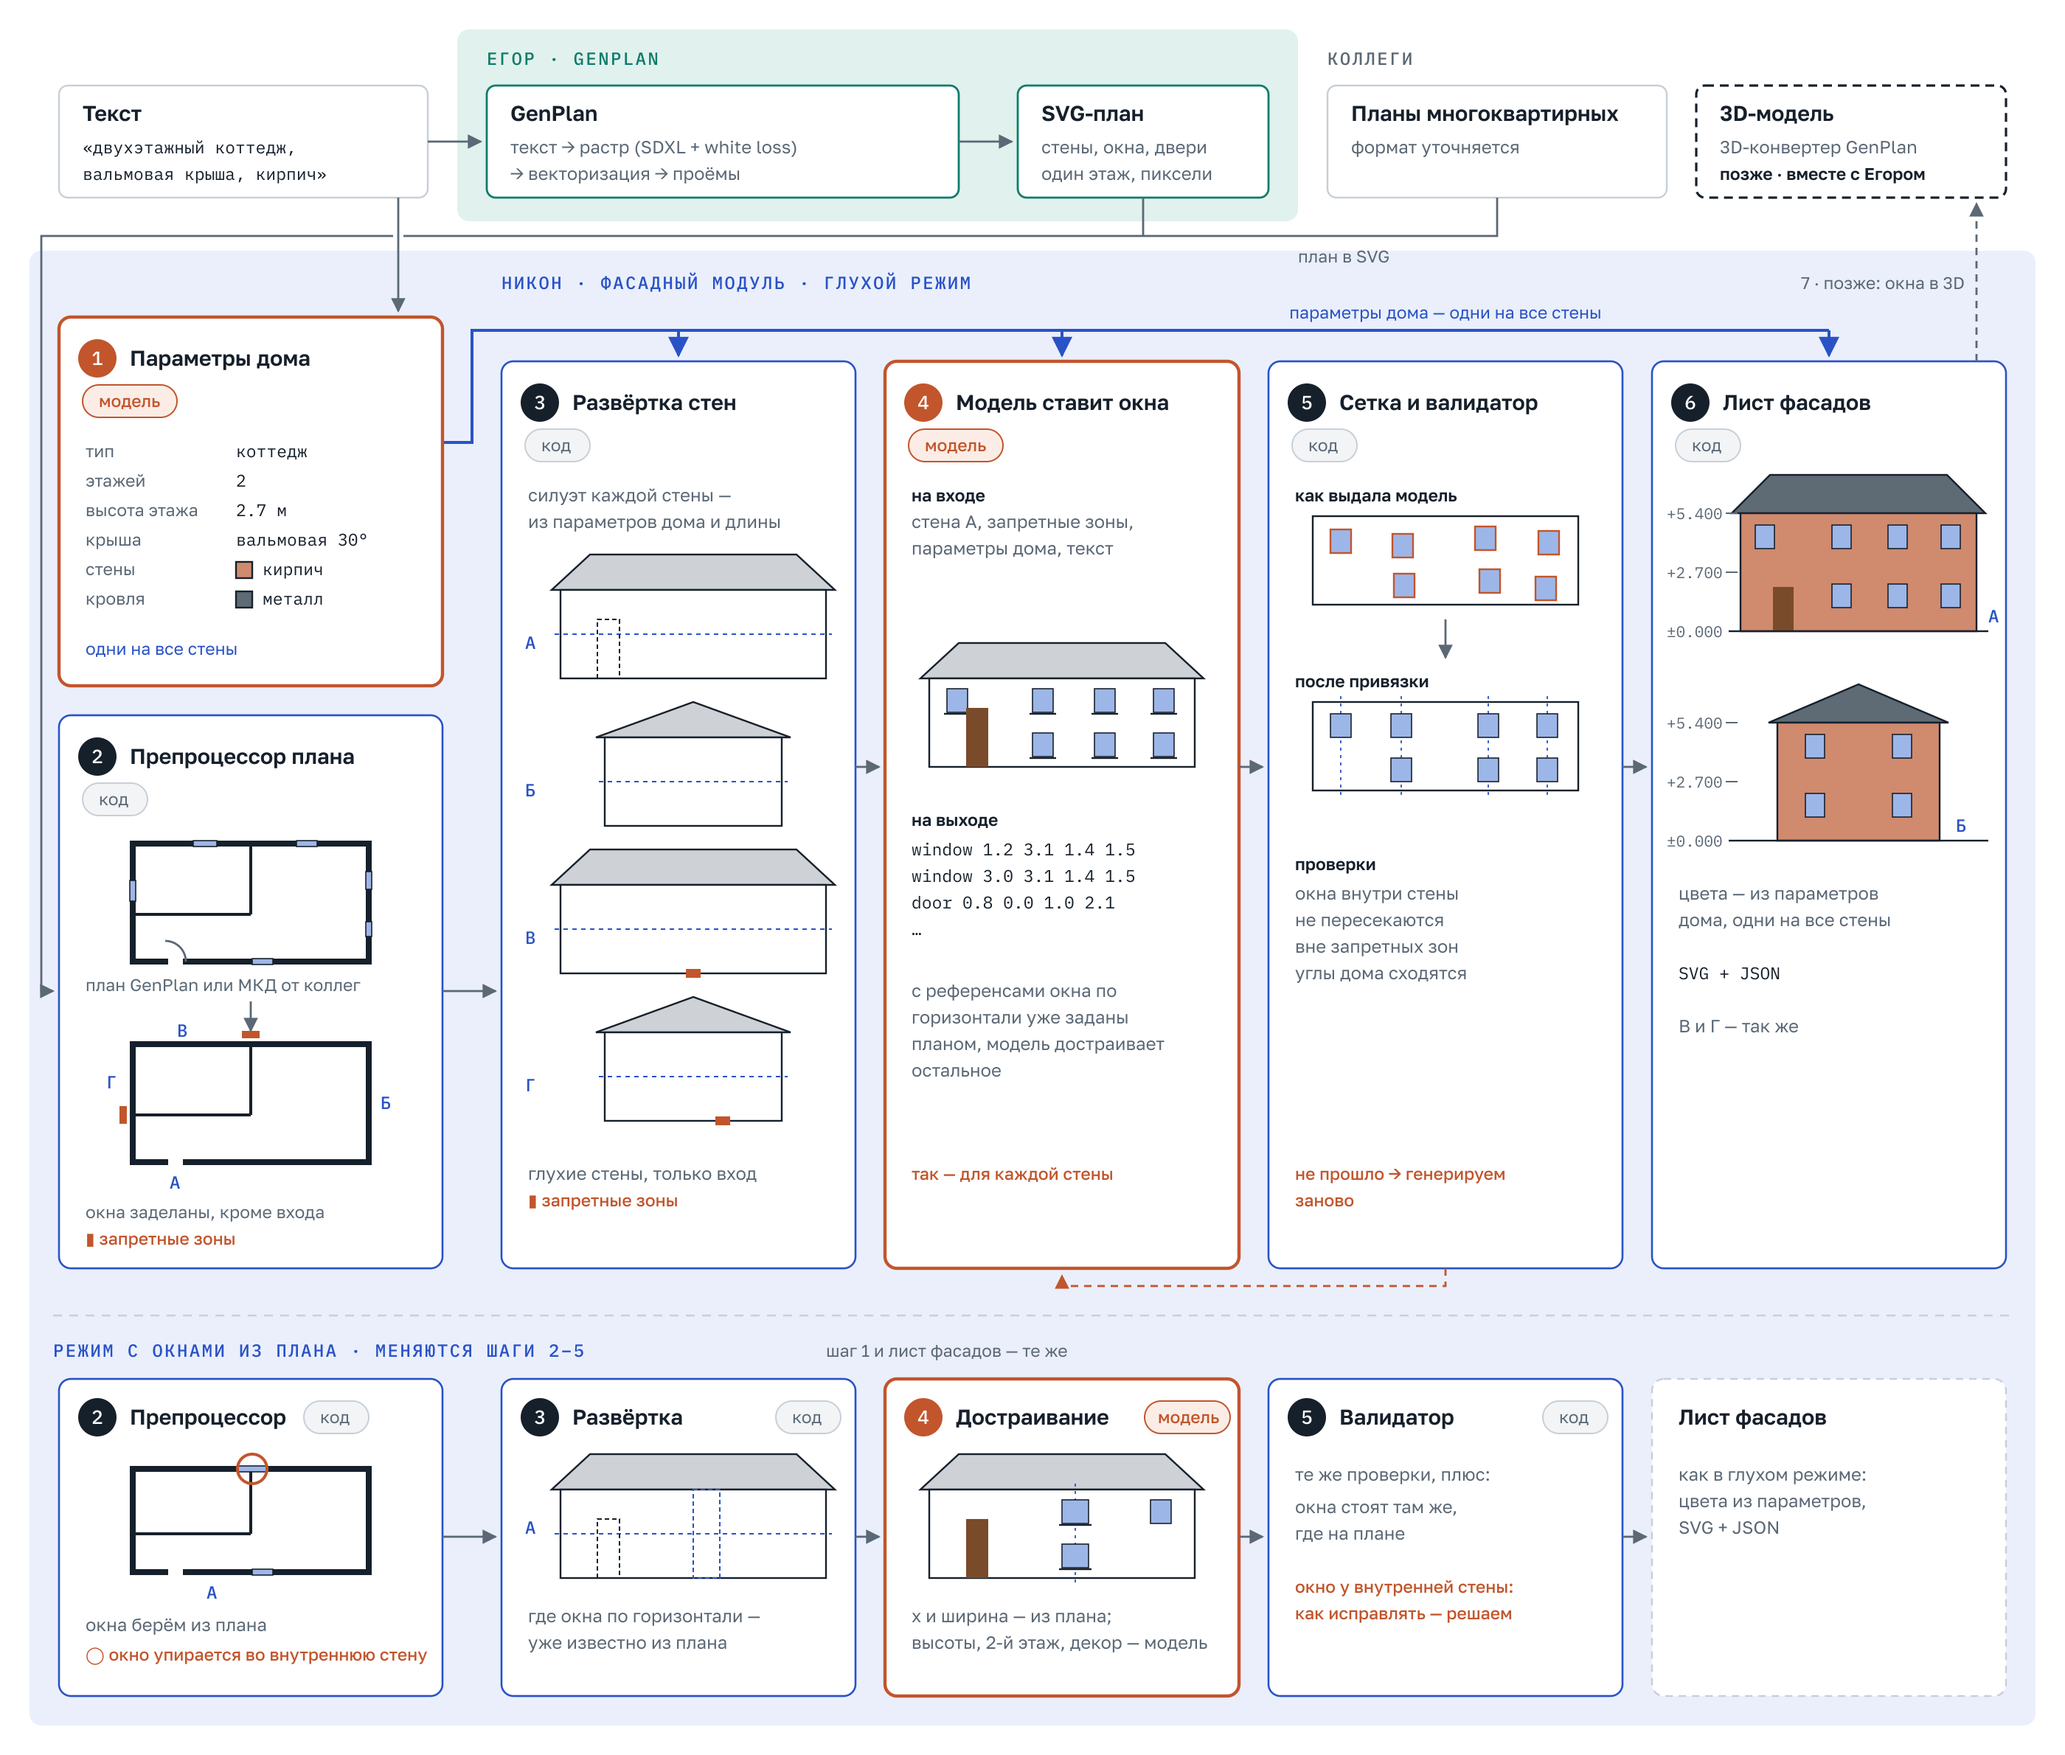
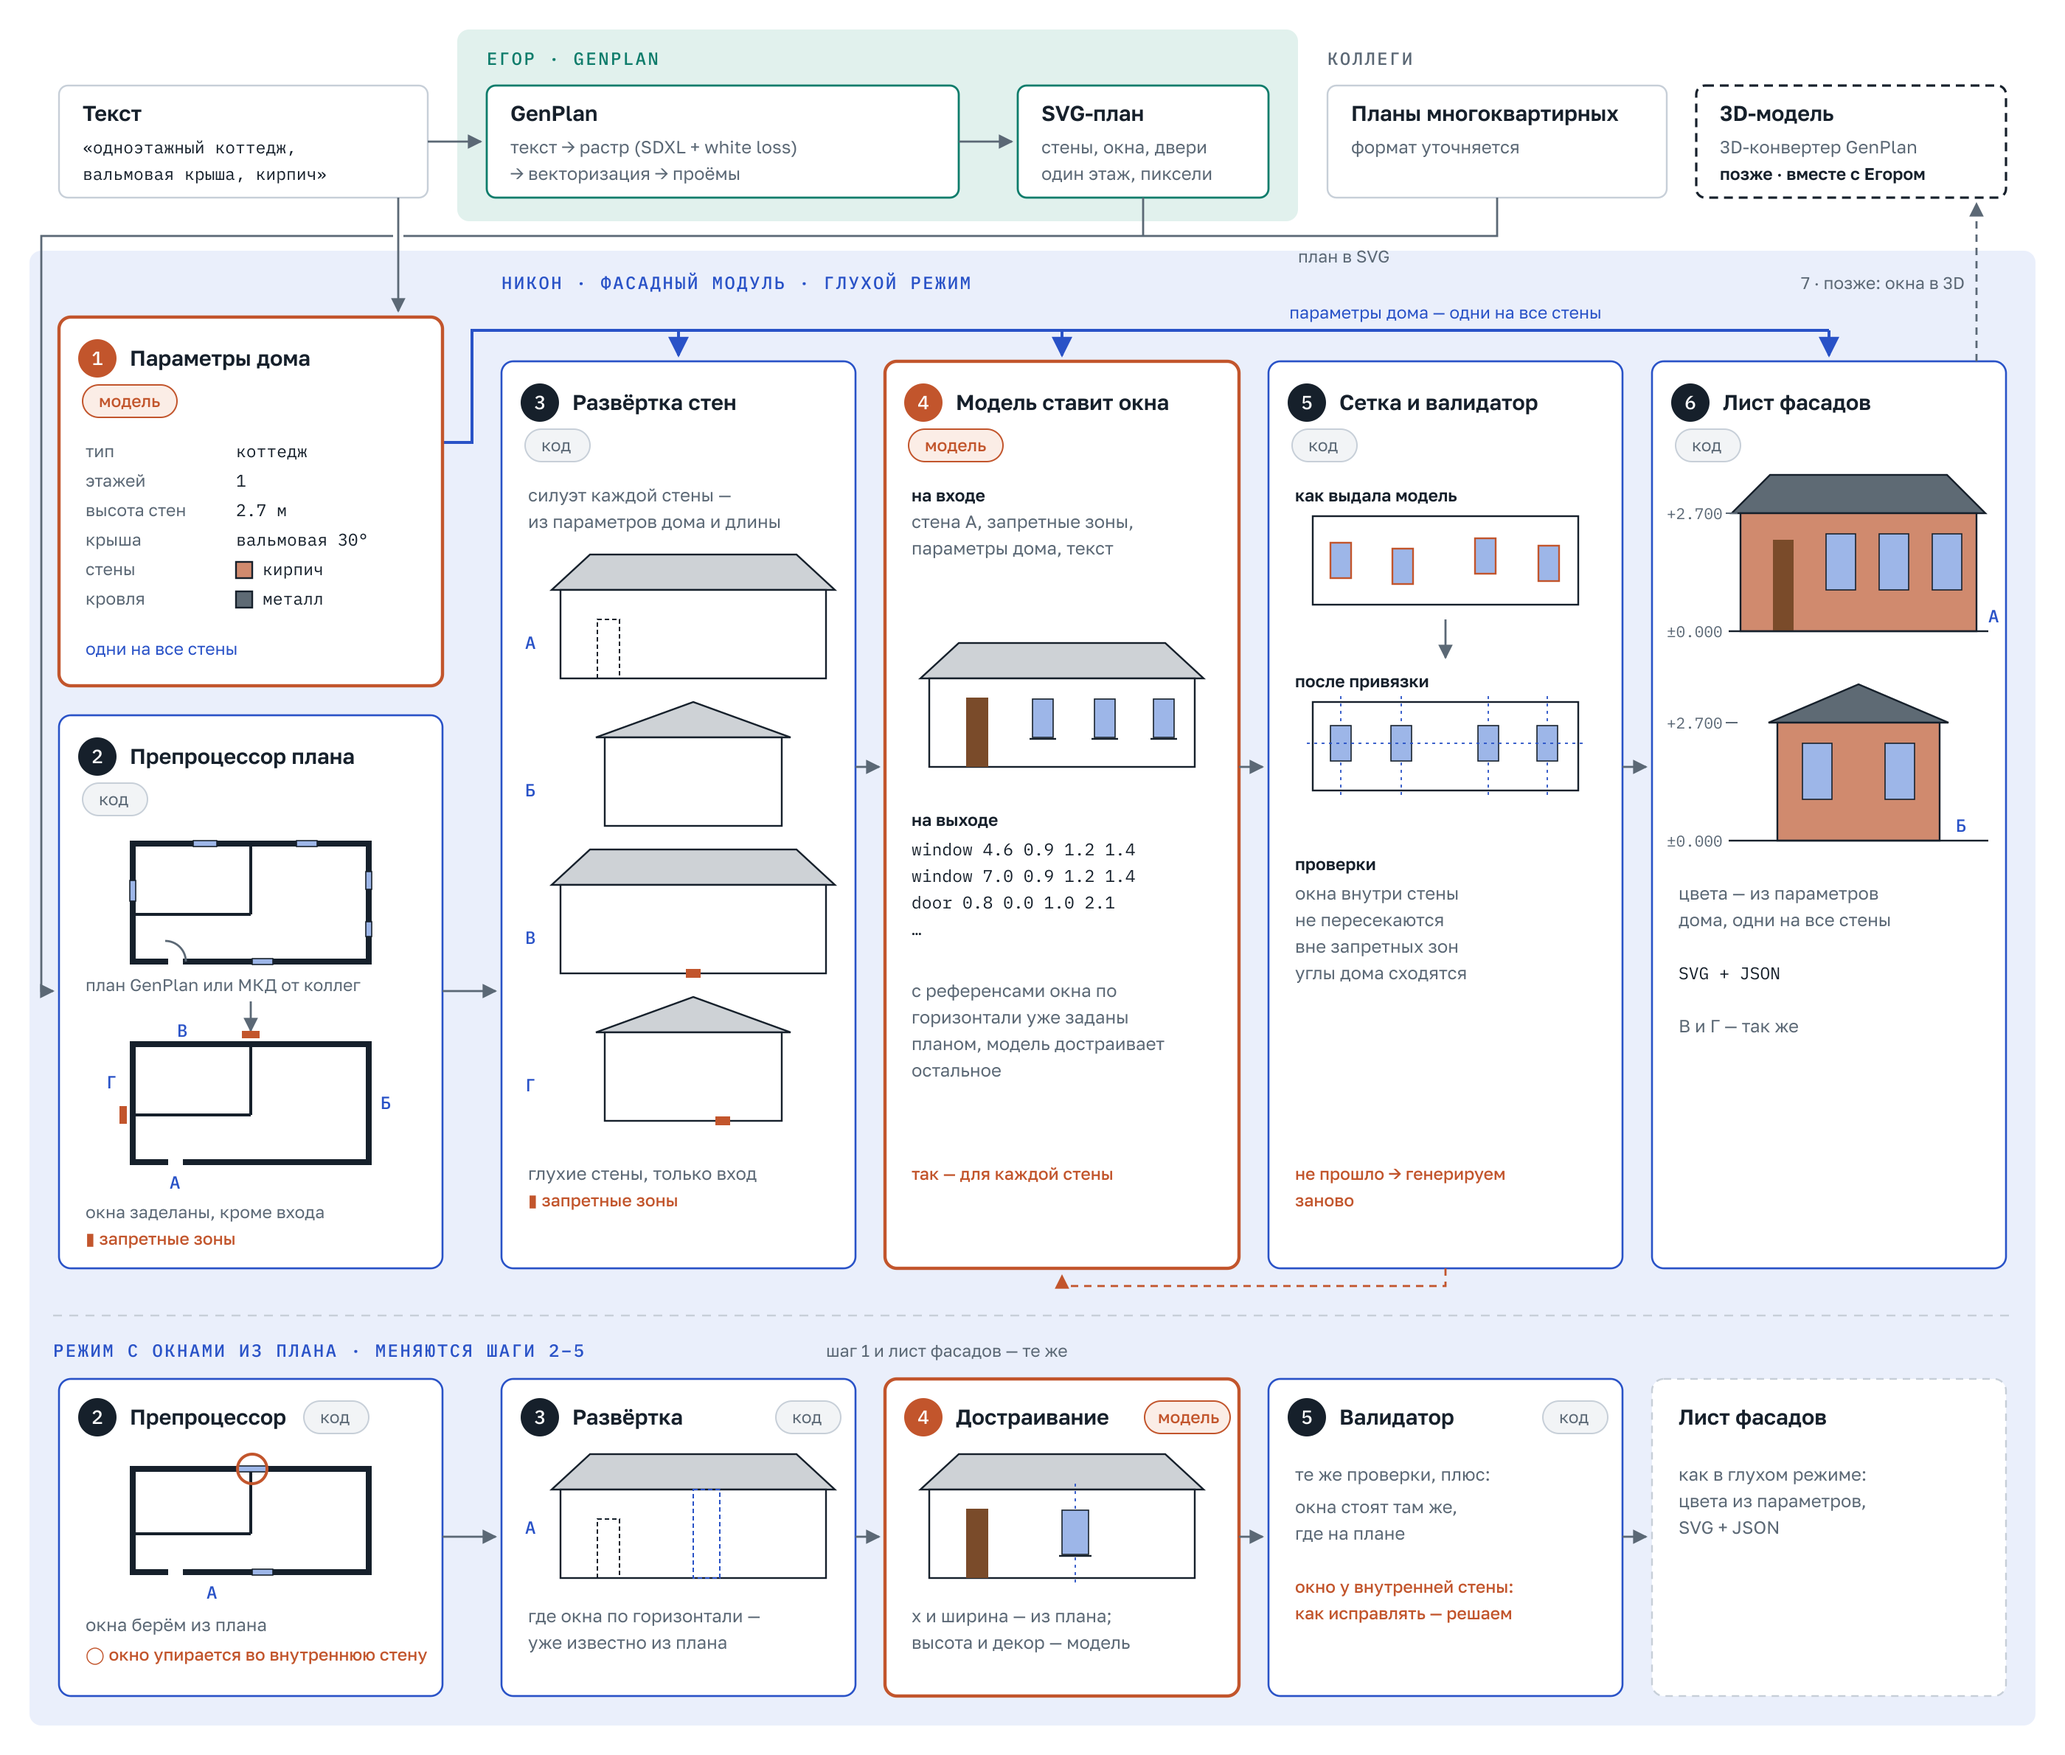
Схема: пример на одноэтажном доме
Окна в один ряд, отметки ±0.000 / +2.700, без линий второго этажа;
в режиме с окнами модель достраивает высоту и декор.

diff --git a/CLAUDE.md b/CLAUDE.md
@@ -19,7 +19,8 @@
 ## Схема пайплайна — держать в голове всегда
 
 Картинка — [docs/assets/facade-modules.png](docs/assets/facade-modules.png)
-(исходник `.svg` рядом), согласована с хозяином 28.09. Схема может меняться:
+(исходник `.svg` рядом), согласована с хозяином 28.09. Пример на картинке —
+одноэтажный дом, для простоты (решение хозяина 28.09). Схема может меняться:
 поменялась — перерисовать картинку, поправить блок ниже и спеки в тот же заход.
 
 ```
@@ -53,7 +54,7 @@
   2. окна берём из плана (не заделываем); ищем окна, в которые
      упирается внутренняя стена — как исправлять, решаем
   3. на развёртке отмечены положения окон по горизонтали
-  4. модель достраивает: x и ширина из плана; высоты, 2-й этаж, декор — её
+  4. модель достраивает: x и ширина из плана; высота и декор — её
   5. валидатор дополнительно: окна стоят там же, где на плане
 
 КОЛЛЕГИ
